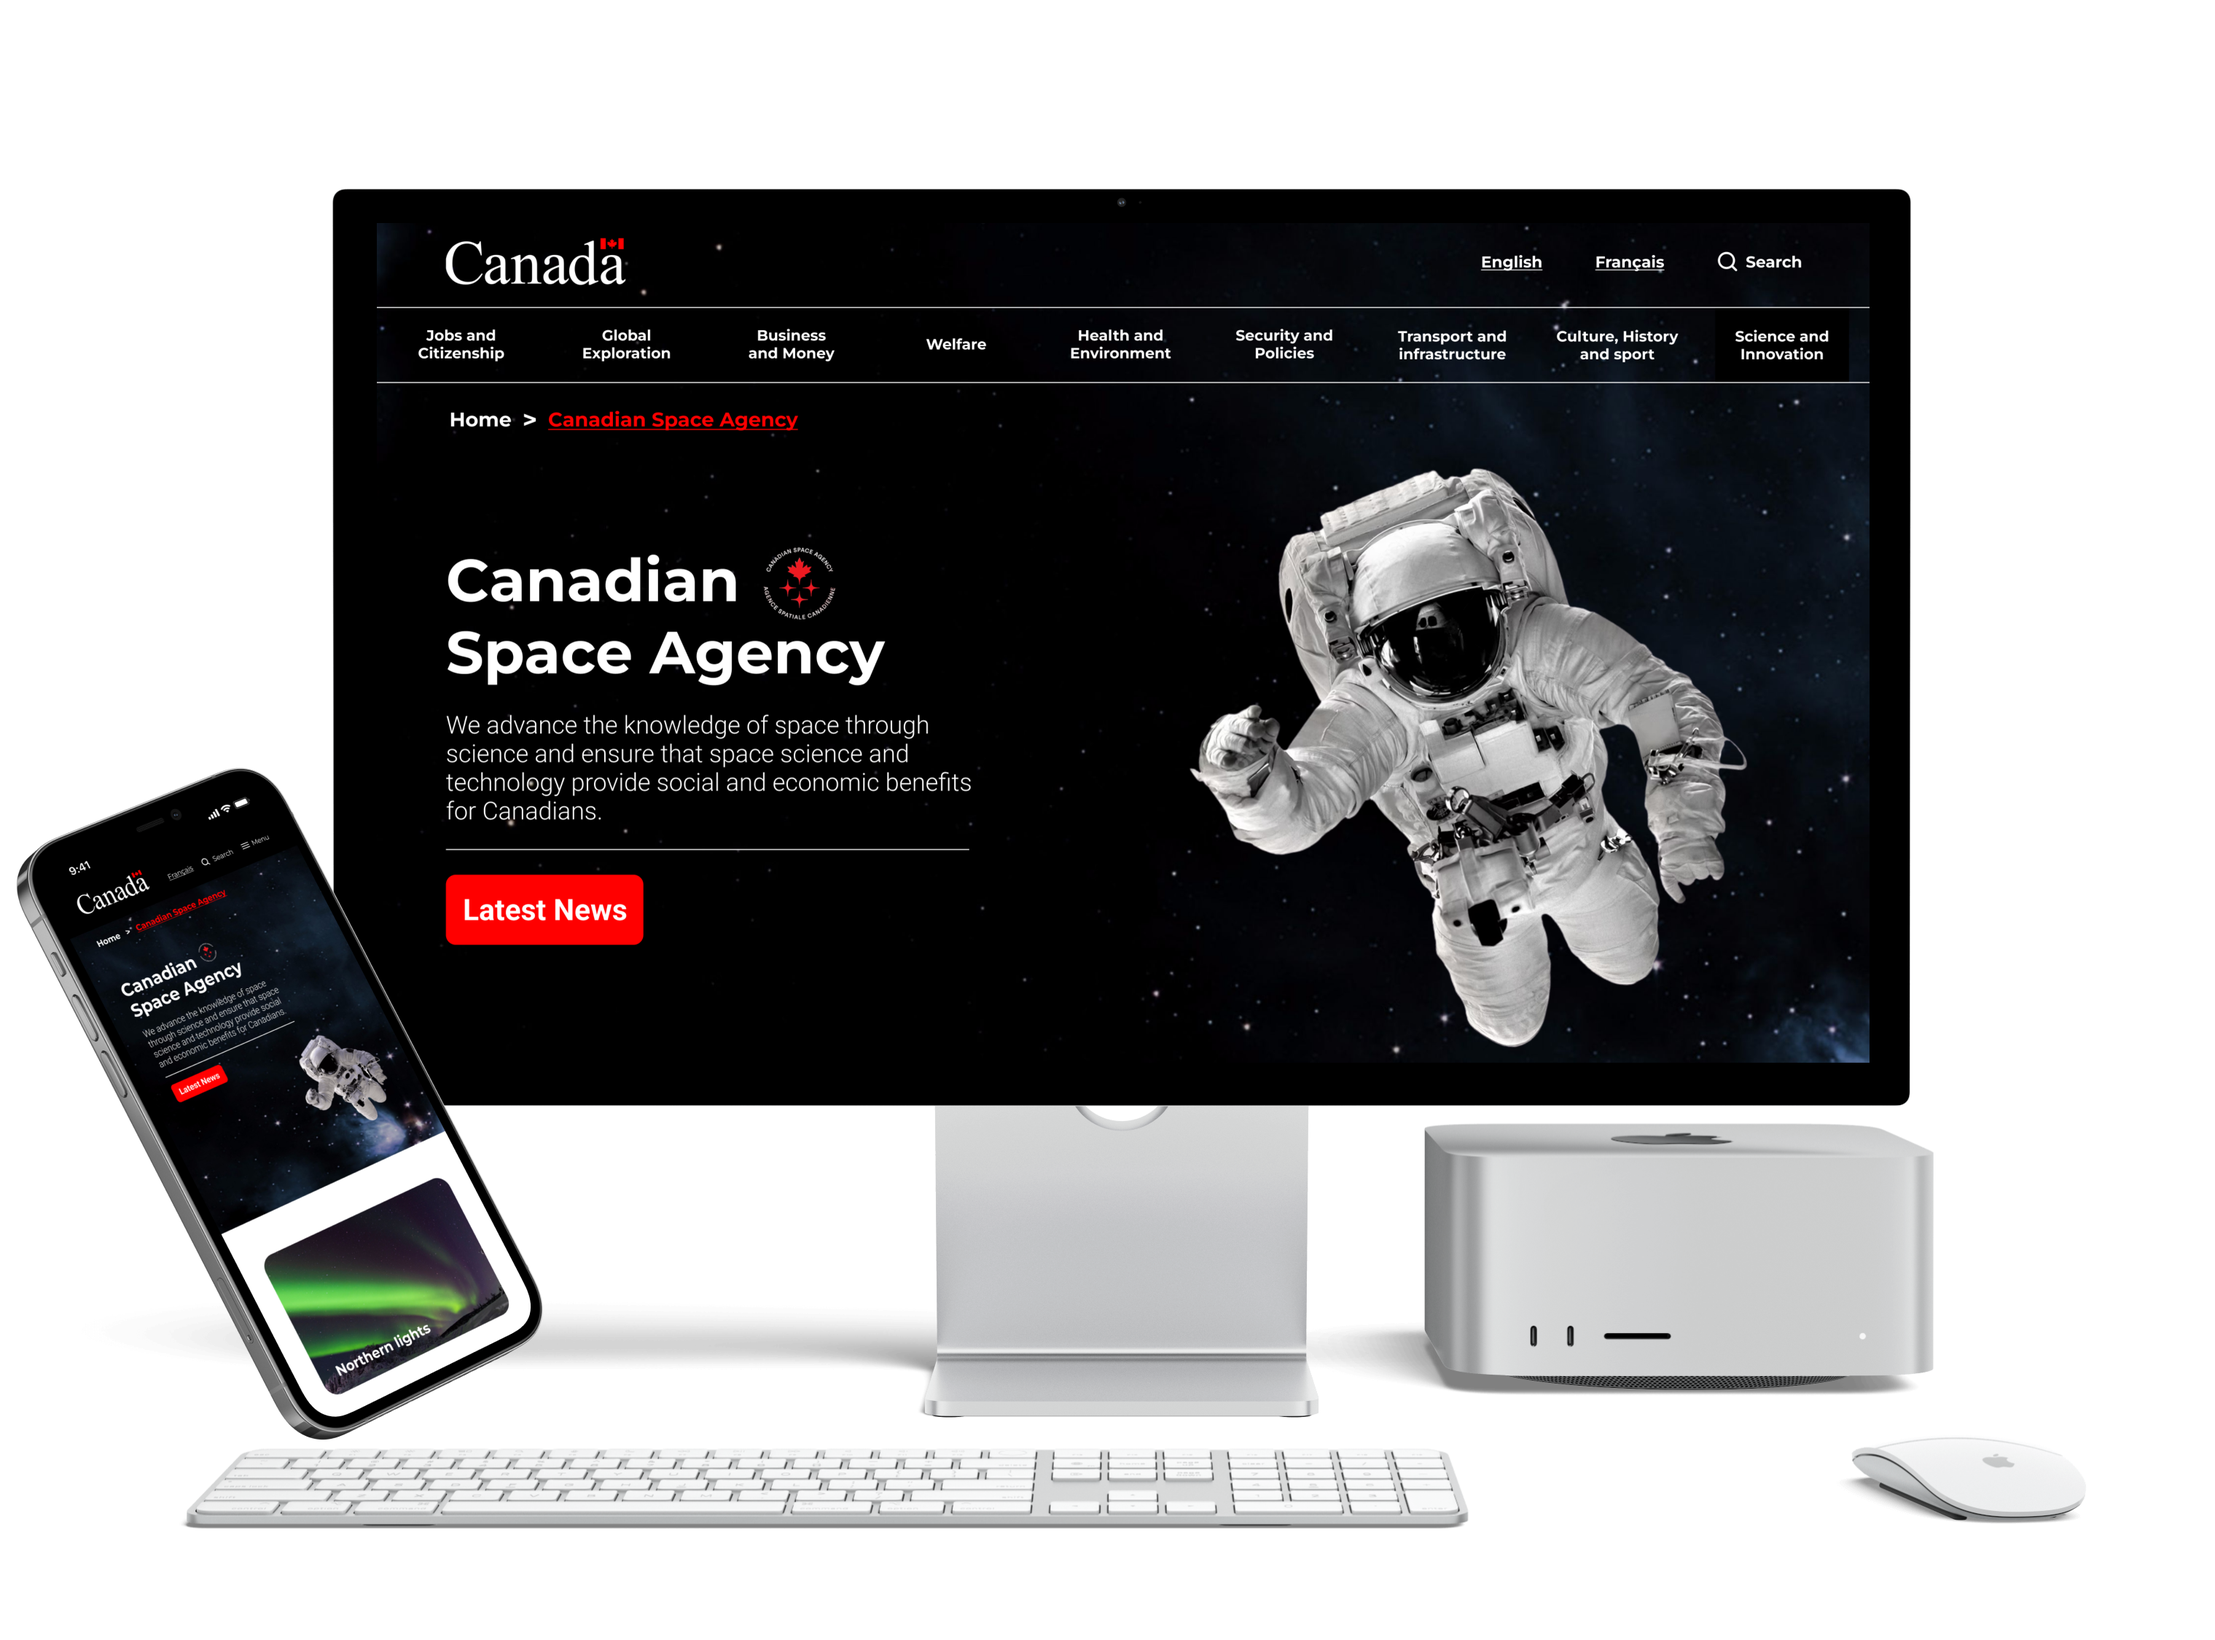
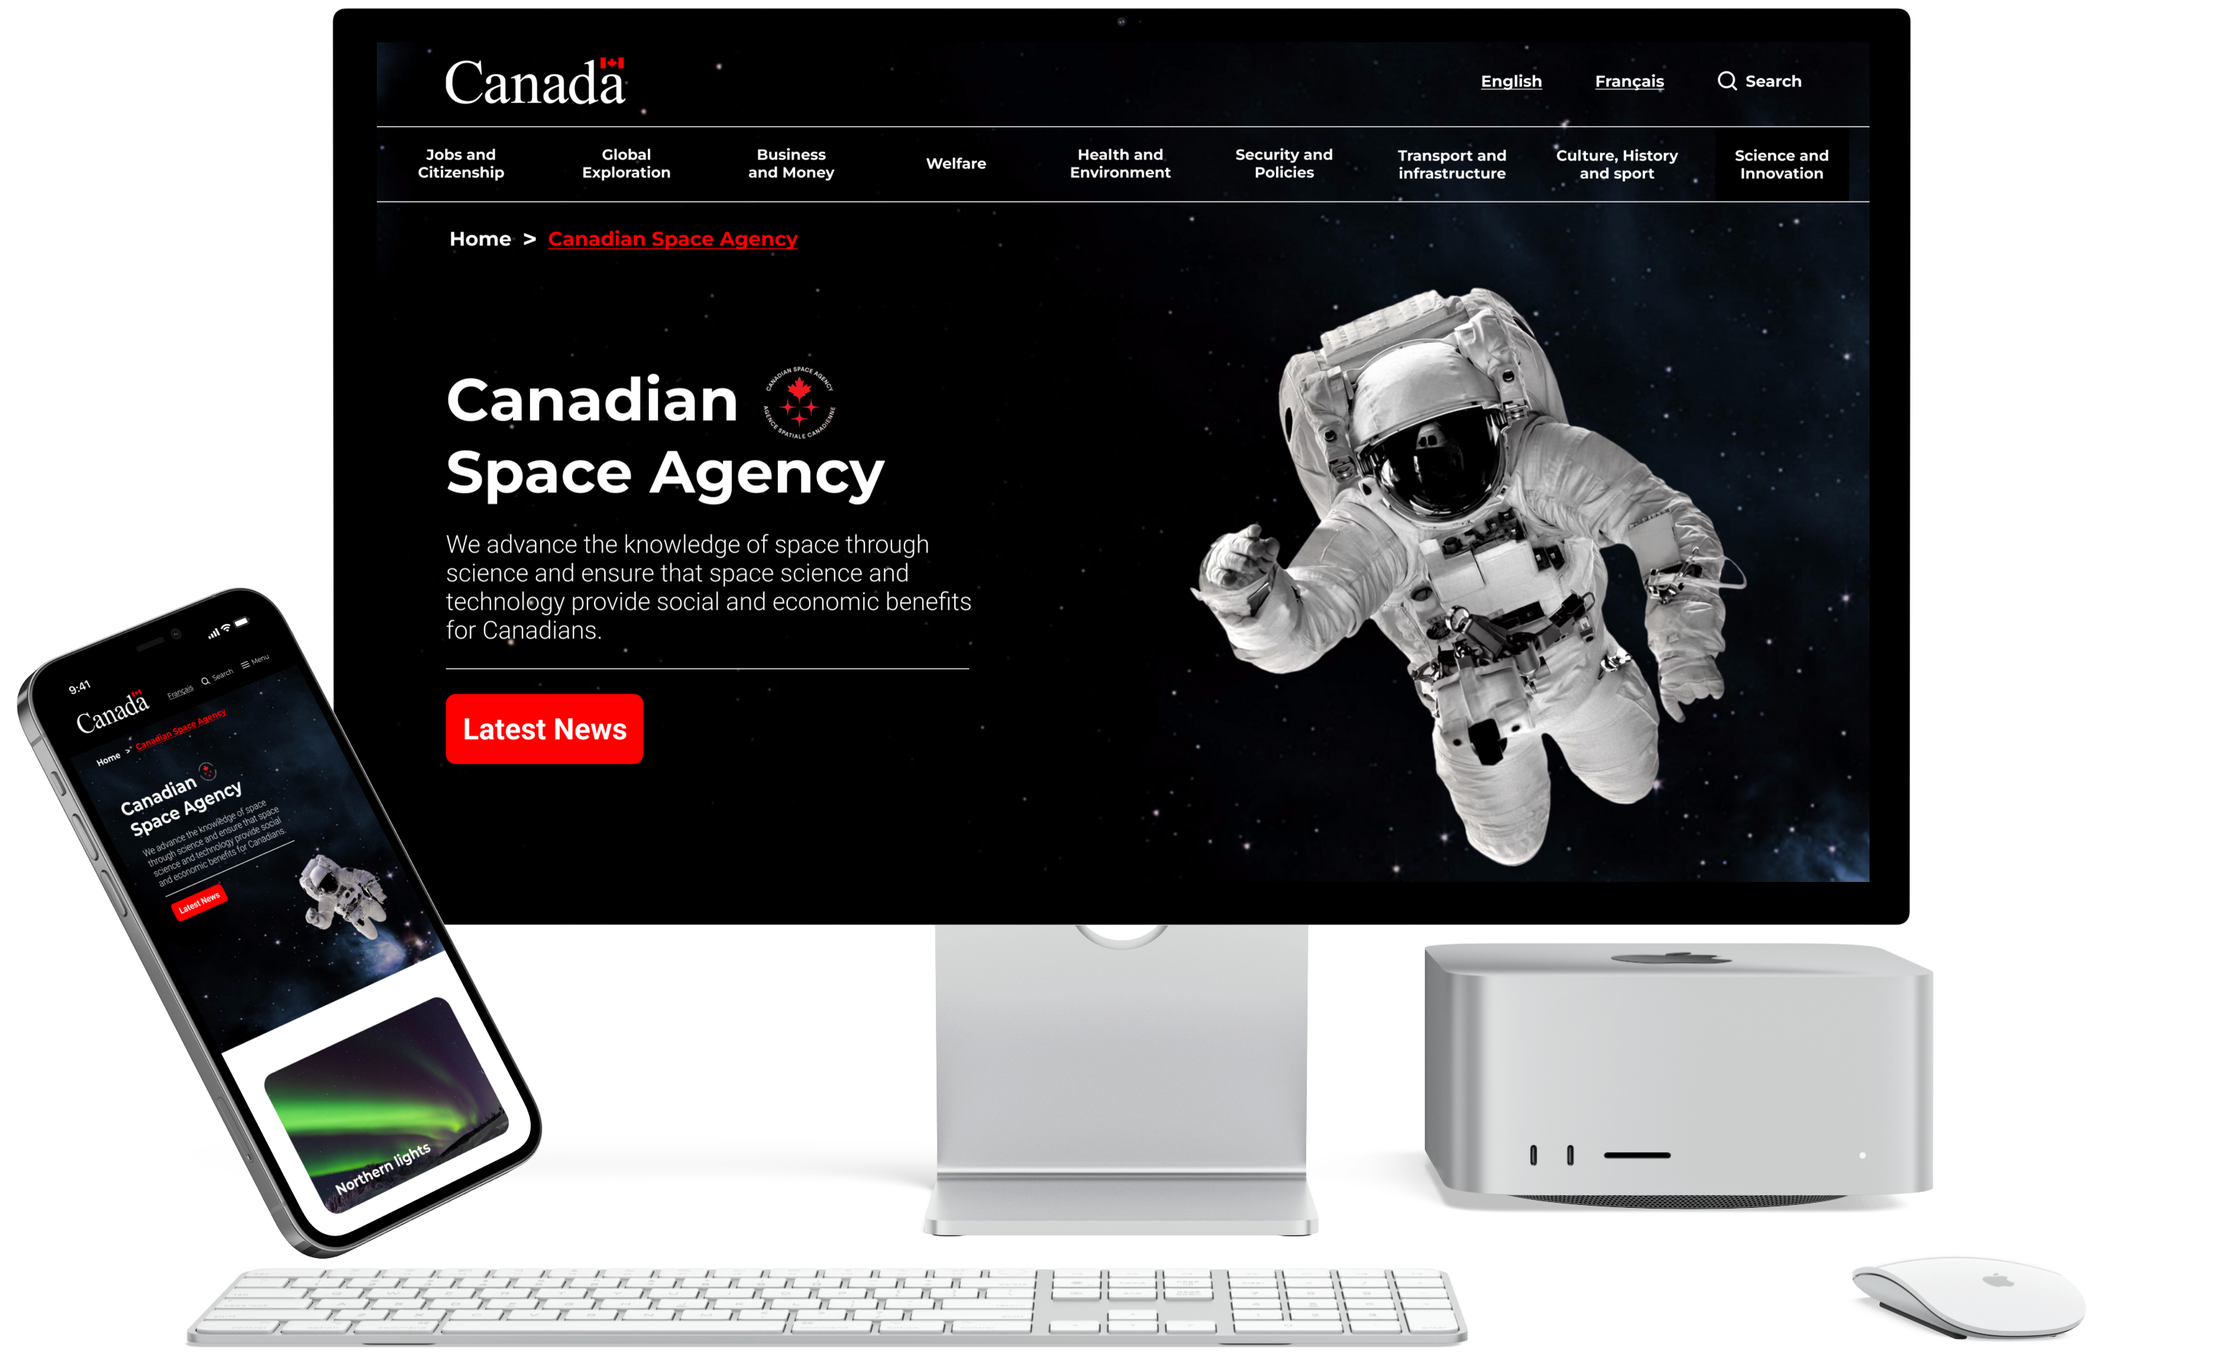
margin-commit

diff --git a/homechef.html b/homechef.html
@@ -94,25 +94,22 @@
                             <div class="title-line"></div>
                             <h1 class="fw-bold title">OVERVIEW</h1>
                         </div>
-                        <div class="explaination-container mb-5">
+                        <div class="explaination-container">
                             <h2>
-                                You're in the kitchen, surrounded by a spread of ingredients, but you're tired of the same old recipes
-                                and frustrated with messy, hands-on cooking apps. That's where our app steps in, born from the 
-                                desire to transform kitchen chaos into culinary excellence.<br></br>Our app is your <span>personal sous-chef</span>
+                                <span>The Problem:</span><br>You're in the kitchen, surrounded by a spread of ingredients, but you're tired of the same old recipes
+                                and frustrated with messy, hands-on cooking apps.<br><br><span>Our Solution:</span><br>That's where our app steps in, born from the 
+                                desire to transform kitchen chaos into culinary excellence. Our app is your <span>personal sous-chef</span>
                                 , designed to <span>inspire and assist</span>. It offers <span>personalized recipes</span> that cater to your 
                                 unique tastes, a <span>voice assistance</span> feature providing step-by-step instructions without the need to 
                                 pause and clean your hands to swipe on your phone, and a <span>smart ingredients scanner</span> turning random 
-                                ingredients into a feast by recommending recipes based on what you already have. <br></br>This isn't just an app, 
-                                it's a revolution in your kitchen, turning everyday cooking into a <span>tailored, hands-free, and creative 
-                                adventure</span>. Welcome to a new era of personalized, stress-free, and inspired cooking. Welcome to the future 
-                                of your kitchen.
+                                ingredients into a feast by recommending recipes based on what you already have.
                             </h2>
                         </div>
                     </div>
                 </div>
                 <div class="col-12">
                     <div class="image-container text-center">
-                        <img src="images/homechef-images-new/mockup-display.png" alt="HomeChef Design" class="img-fluid" style="max-width: 80%;">
+                        <img src="images/homechef-images-new/mockup-display.png" alt="HomeChef Design" class="img-fluid" style="max-width: 80%; margin-top: 150px;">
                     </div>
                 </div>
             </div>

diff --git a/pureroaming.html b/pureroaming.html
@@ -94,16 +94,22 @@
                             <div class="title-line"></div>
                             <h1 class="fw-bold title">OVERVIEW</h1>
                         </div>
-                        <div class="explaination-container mb-5">
+                        <div class="explaination-container">
                             <h2>
-                                In today's fast-paced world, travelers often <span class="fw-bold">struggle with managing time and finding travel destinations that cater to their specific preferences.</span> This challenge is compounded by information overload and the complexity of balancing desires with budget constraints.<br><br><span class="fw-bold">PureRoaming</span> emerges as a solution to these challenges, offering an app focused on <span class="fw-bold">personalized travel recommendations.</span> By simplifying the planning process, PureRoaming enables travelers to efficiently manage their time and discover tailored experiences that align with their interests and budget.
+                                <span>The Problem:</span><br>In today's fast-paced world, travelers often 
+                                <span class="fw-bold">struggle with managing time and finding travel destinations that cater to their specific preferences.</span> 
+                                This challenge is compounded by information overload and the complexity of balancing desires with budget 
+                                constraints.<br><br><span>Our Solution:</span><br>PureRoaming emerges as a solution to these challenges, 
+                                offering an app focused on <span class="fw-bold">personalized travel recommendations.</span> By simplifying the 
+                                planning process, PureRoaming enables travelers to efficiently manage their time and discover tailored experiences 
+                                that align with their interests and budget.
                             </h2>
                         </div>
                     </div>
                 </div>
                 <div class="col-12">
                     <div class="image-container text-center">
-                        <img src="images/pureroaming-images/pureroaming-design.png" alt="Proto-Persona Design" class="img-fluid" style="max-width: 80%;">
+                        <img src="images/pureroaming-images/pureroaming-design.png" alt="Proto-Persona Design" class="img-fluid" style="max-width: 90%; margin-top: 150px;">
                     </div>
                 </div>
             </div>

diff --git a/csa.html b/csa.html
@@ -94,9 +94,10 @@
                             <div class="title-line"></div>
                             <h1 class="fw-bold title">OVERVIEW</h1>
                         </div>
-                        <div class="explaination-container mb-5">
+                        <div class="explaination-container">
                             <h2>
-                                This project involved a team-driven redesign of the Canadian Space Agency's website, specifically the 
+                                <span>The Problem:</span><br>The Canadian Space Agency's website had a complex layout that confused users, 
+                                making it hard to find and engage with space-related content.<br><br><span>Our Solution:</span><br>This project involved a team-driven redesign of the Canadian Space Agency's website, specifically the 
                                 <span>homepage</span>, with an emphasis on <span>enhancing user experience and accessibility</span>. The 
                                 team effectively simplified the previously complex layout, creating an intuitive and user-friendly interface. 
                                 <span>Tailored for a diverse audience</span>, from space enthusiasts to industry professionals, the project 
@@ -108,7 +109,7 @@
                 </div>
                 <div class="col-12">
                     <div class="image-container text-center">
-                        <img src="images/csa-images/csa-design.png" alt="CSA Design" class="img-fluid" style="max-width: 90%;">
+                        <img src="images/csa-images/csa-design.png" alt="CSA Design" class="img-fluid" style="max-width: 90%; margin-top: 150px;">
                     </div>
                 </div>
             </div>
